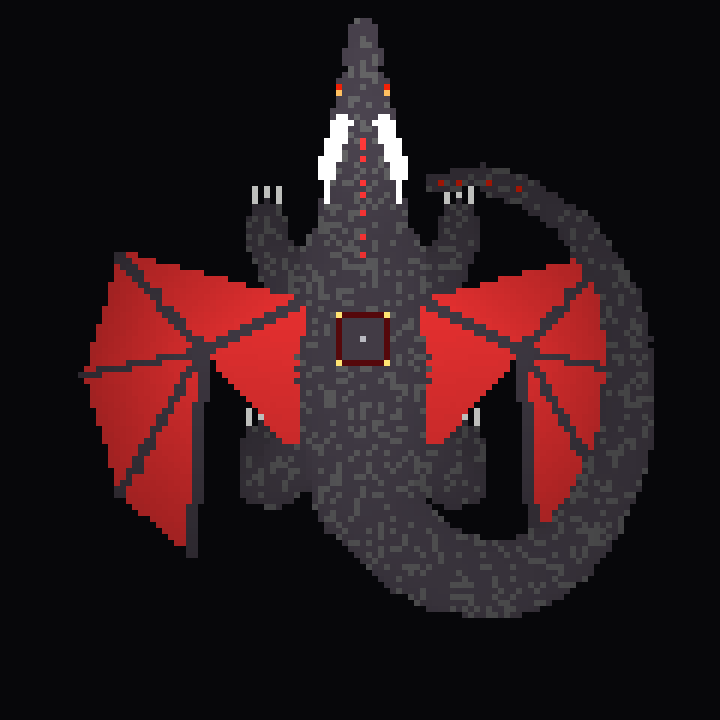
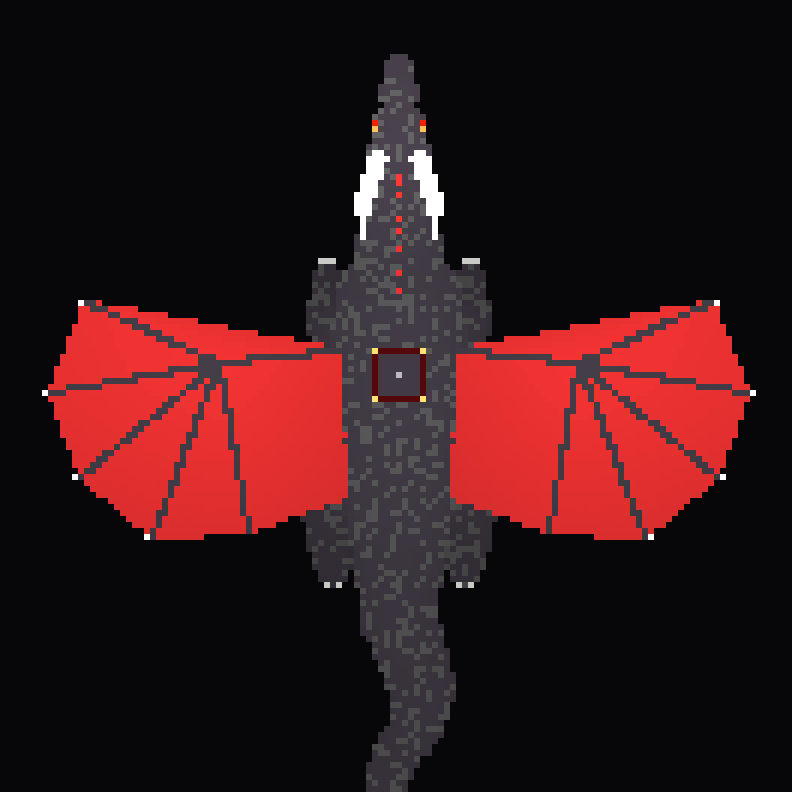
Warzone : dragon en plein vol à plus de 44 blocs du sol
Ailes ouvertes (116 blocs d'envergure), queue vers le sud, pattes repliées ;
point le plus bas hors de portée d'une perle de l'Ender. Cercle
d'atterrissage au sol.

Claude-Session: https://claude.ai/code/session_01VPVdT1uD4uVrbpiLTJKxbM

Changed region(s): [[0.0611, 0.0, 0.9472, 1.0]]

diff --git a/minecraft/warzone/generate.py b/minecraft/warzone/generate.py
@@ -27,7 +27,8 @@ _spec.loader.exec_module(_spawn)
 LOGO_BLOCKS, Palette, write_schem, logo_grid = _spawn.LOGO_BLOCKS, _spawn.Palette, _spawn.write_schem, _spawn.logo_grid
 
 HALF = 136  # bord : chunks -8..8 autour du chunk central → x, z de -136 à 135
-YMIN, YMAX = -8, 62
+YMIN, YMAX = -8, 108
+LIFT = 44  # le dragon vole : son point le plus bas reste à plus de 44 blocs du sol, hors de portée d'une perle (~37)
 PB = "minecraft:polished_blackstone_bricks"
 DT = "minecraft:deepslate_tiles"
 
@@ -39,7 +40,7 @@ OUTPOSTS = {
 }
 GATES = {"nord": (0, -1), "est": (1, 0), "sud": (0, 1), "ouest": (-1, 0)}
 OUTER_D = 336  # centre des avant-postes extérieurs : 176 blocs au-delà du bord de la warzone
-ARRIVAL = (0, 34, -4)  # pieds du joueur sur la plateforme, sur le dos du dragon
+ARRIVAL = (0, 34, -4)  # pieds du joueur sur la plateforme, dans le repère du dragon (avant élévation)
 
 
 class Vol:
@@ -63,6 +64,22 @@ class Vol:
 
     def air(self, x, y, z):
         return self.ok(x, y, z) and self.v[y - self.ymin, z + self.half, x + self.half] == 0
+
+
+class Lifted:
+    """Vue décalée en hauteur d'un volume : le dragon se construit comme au sol, puis flotte LIFT blocs plus haut."""
+
+    def __init__(self, w, dy):
+        self.w, self.dy = w, dy
+
+    def put(self, x, y, z, name):
+        self.w.put(x, y + self.dy, z, name)
+
+    def air(self, x, y, z):
+        return self.w.air(x, y + self.dy, z)
+
+    def get(self, x, y, z):
+        return self.w.get(x, y + self.dy, z)
 
 
 def noise(x, z, s):
@@ -200,12 +217,11 @@ def triangle(w, a, b, c, name, step=0.45):
 
 
 def dragon(w, rng):
-    """Dragon couché au centre, la tête au nord. On arrive sur son dos ; on descend par la queue ou par les ailes."""
+    """Dragon en plein vol, la tête au nord, construit autour de y = 0 puis élevé par Lifted. On arrive sur son dos."""
     # Corps : du bassin (sud) au poitrail (nord). Le dos culmine sous la plateforme d'arrivée.
     body = spline([(0, 15, 22, 8.5), (0, 19, 10, 10.5), (0, 22, -4, 11.5), (0, 21, -16, 10.5)], 10)
     neck = spline([(0, 21, -16, 9), (0, 27, -27, 7), (0, 36, -34, 5.5), (0, 42, -38, 5)], 10)
-    tail = spline([(0, 15, 22, 8), (12, 12, 34, 7), (30, 9, 34, 6), (42, 6, 18, 5), (44, 4, -4, 4),
-                   (36, 2, -22, 3), (22, 1, -30, 2.2), (12, 1, -30, 1.6)], 10)
+    tail = spline([(0, 15, 22, 8), (0, 14, 36, 6.5), (4, 13, 50, 5), (-2, 12, 64, 3.5), (3, 12, 76, 2.5), (0, 13, 86, 1.6)], 10)
     for pts in (body, neck, tail):
         tube(w, pts, rng)
     # Tête : crâne, mâchoire, museau, cornes argent, yeux rubis.
@@ -219,30 +235,32 @@ def dragon(w, rng):
         w.put(s * 4, 44, -45, "minecraft:shroomlight")
         for z in (-52, -54):  # crocs
             w.put(s * 2, 36, z, "minecraft:calcite")
-    # Pattes repliées, griffes argent.
-    for s in (-1, 1):
-        for a, b, paw in (((s * 9, 14, -10, 5.5), (s * 15, 6, -18, 3.5), (s * 16, 1, -24, 3)),
-                          ((s * 9, 12, 14, 6), (s * 16, 5, 20, 4), (s * 17, 1, 13, 3))):
-            tube(w, spline([a, b, paw], 6), rng)
-            px, _, pz, _ = paw
-            for k in (-2, 0, 2):  # trois griffes vers l'avant
-                for d in range(3):
-                    w.put(round(px + k), 0, round(pz - 3 - d), "minecraft:calcite")
-    # Ailes repliées le long du corps, membrane rubis tendue entre des os noirs, extrémités posées au sol.
-    for s in (-1, 1):
-        shoulder = (s * 10, 30, -10)
-        elbow = (s * 26, 24, -2)
-        fingers = [(s * 40, 0, -18), (s * 46, 0, 2), (s * 40, 0, 22), (s * 28, 0, 32)]
+    # Pattes repliées sous le corps, tendues vers l'arrière comme en plein vol ; griffes argent.
+    for s_ in (-1, 1):
+        for leg in ([(s_ * 9, 14, -10, 5), (s_ * 12, 9, -14, 3.5), (s_ * 12, 7, -20, 2.5)],
+                    [(s_ * 9, 12, 14, 5.5), (s_ * 12, 7, 20, 4), (s_ * 11, 6, 28, 3)]):
+            tube(w, spline(leg, 6), rng)
+            px, py, pz, _ = leg[-1]
+            for k in (-1, 0, 1):
+                for d in range(2):
+                    w.put(round(px + k), round(py) - 2, round(pz + (1 if pz > 0 else -1) * (2 + d)), "minecraft:calcite")
+    # Ailes grandes ouvertes, légèrement relevées : os noirs, membrane rubis. Envergure de 116 blocs.
+    for s_ in (-1, 1):
+        shoulder = (s_ * 10, 30, -8)
+        elbow = (s_ * 30, 37, -6)
+        fingers = [(s_ * 52, 33, -16), (s_ * 58, 30, -1), (s_ * 53, 27, 13), (s_ * 41, 25, 23), (s_ * 25, 26, 22)]
         for p in [elbow] + fingers:
             for q in line_pts(shoulder if p is elbow else elbow, p, 0.4):
-                for dx in (0, 1):
-                    X, Y, Z = (round(v) for v in q)
-                    if Y >= 0:
-                        w.put(X + dx * s, Y, Z, "minecraft:polished_blackstone")
+                X, Y, Z = (round(v) for v in q)
+                for dy in (0, 1):
+                    w.put(X, Y + dy, Z, "minecraft:polished_blackstone")
         triangle(w, shoulder, elbow, fingers[0], "minecraft:red_stained_glass")
-        for a, b in zip(fingers, fingers[1:]):
-            triangle(w, elbow, a, b, "minecraft:red_stained_glass")
-        triangle(w, shoulder, elbow, (s * 10, 16, 16), "minecraft:red_stained_glass")
+        for f1, f2 in zip(fingers, fingers[1:]):
+            triangle(w, elbow, f1, f2, "minecraft:red_stained_glass")
+        triangle(w, elbow, fingers[-1], (s_ * 9, 24, 16), "minecraft:red_stained_glass")
+        triangle(w, shoulder, elbow, (s_ * 9, 24, 16), "minecraft:red_stained_glass")
+        for f in fingers[:4]:  # griffe argent au bout de chaque doigt
+            w.put(round(f[0]) + s_, round(f[1]), round(f[2]), "minecraft:calcite")
     # Épines rubis sur la nuque et la queue, en dehors du chemin de descente.
     for pts in (neck[2:-2:3],):
         for x, y, z, r in pts:
@@ -411,7 +429,13 @@ def build_warzone():
         pillar(w, x, z, 5)
     for key in OUTPOSTS:
         outpost(w, key, rng)
-    dragon(w, rng)
+    dragon(Lifted(w, LIFT), rng)
+    # Cercle d'atterrissage sous le dragon en vol : on saute du dos, on atterrit ici (dégâts de chute coupés par la région).
+    for a in range(0, 360, 2):
+        for rr in (49, 50):
+            x, z = round(rr * math.cos(math.radians(a))), round(-10 + rr * math.sin(math.radians(a)))
+            if w.get(x, -1, z) not in (PB, "minecraft:polished_blackstone"):
+                w.put(x, -1, z, "minecraft:red_nether_bricks")
     return w
 
 
@@ -471,7 +495,7 @@ def main():
     write_schem(HERE / "vaeloria-avant-poste-exterieur.schem", o.v, o.pal.names, (24, 1, 24))
     render(w, HERE / "apercu-warzone-dessus.png", HERE / "apercu-warzone-sud.png", 3)
     # Vue rapprochée du dragon.
-    d = Vol(half=60, ymin=-1, ymax=YMAX)
+    d = Vol(half=66, ymin=-1, ymax=70)
     dragon(d, np.random.default_rng(21))
     render(d, HERE / "apercu-dragon-dessus.png", HERE / "apercu-dragon-sud.png", 6)
     print("warzone :", int((w.v > 0).sum()), "blocs ·", w.v.shape[::-1], "· avant-poste extérieur :", o.v.shape[::-1])
